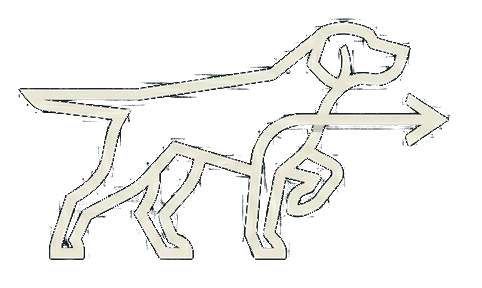
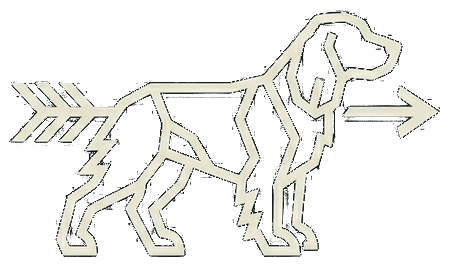
The Boykins rebrand: new spaniel mark, bigger header, legible boom/bust badge, big board is home

Changed region(s): [[0.0, 0.0299, 0.9912, 0.9851]]

diff --git a/static/style.css b/static/style.css
@@ -1,5 +1,5 @@
 /* ════════════════════════════════════════════════════════════
-   BIRDDOG SCOUTING — design system
+   THE BOYKINS SCOUTING — design system
    Palette derived from the brand mark: deep field slate, bone,
    hunter orange. One accent; semantic colors muted to match.
    ════════════════════════════════════════════════════════════ */
@@ -86,8 +86,8 @@ table, .stat-value, .bb-stat, .bb-pos { font-variant-numeric: tabular-nums; }
 .navbar.bd-nav {
     background: var(--bg-2) !important;
     border-bottom: 2px solid var(--orange);
-    padding-top: 10px;
-    padding-bottom: 10px;
+    padding-top: 14px;
+    padding-bottom: 14px;
 }
 .bd-brand {
     display: flex;
@@ -95,11 +95,11 @@ table, .stat-value, .bb-stat, .bb-pos { font-variant-numeric: tabular-nums; }
     gap: 10px;
     text-decoration: none;
 }
-.bd-brand .bd-mark { height: 34px; width: auto; display: block; }
+.bd-brand .bd-mark { height: 52px; width: auto; display: block; }
 .bd-wordmark {
     font-family: var(--font-display);
     font-weight: 700;
-    font-size: 19px;
+    font-size: 24px;
     letter-spacing: .04em;
     color: var(--ink);
     line-height: 1;
@@ -132,7 +132,7 @@ table, .stat-value, .bb-stat, .bb-pos { font-variant-numeric: tabular-nums; }
     border-bottom: 1px solid var(--line);
     padding: 12px 0;
     position: sticky;
-    top: 62px;
+    top: 86px;
     z-index: 1020;
 }
 .search-icon {
@@ -218,6 +218,16 @@ table, .stat-value, .bb-stat, .bb-pos { font-variant-numeric: tabular-nums; }
     min-width: 70px; display: inline-block;
 }
 .badge-sub { font-size: 10px; font-weight: 600; display: block; opacity: .85; }
+.pred-badge {
+    background: var(--bg-2);
+    border: 1px solid var(--line-strong);
+    color: var(--muted);
+    font-size: 22px; font-weight: 800;
+    padding: 10px 20px; border-radius: var(--radius); text-align: center;
+    min-width: 70px; display: inline-block;
+}
+.pred-badge .pred-boom { color: var(--green-soft); }
+.pred-badge .pred-bust { color: var(--red-soft); }
 
 /* ── Archetype badges ─────────────────────────────────── */
 .arch-off {

diff --git a/templates/scouting.html b/templates/scouting.html
@@ -1,6 +1,6 @@
 {% extends "base.html" %}
 {% set active_page = "scouting" %}
-{% block title %}{{ player.name }} — Birddog Scouting{% endblock %}
+{% block title %}{{ player.name }} — The Boykins Scouting{% endblock %}
 
 {% block head %}
 <style>
@@ -97,11 +97,11 @@
                     <div class="rank-badge"><span class="badge-sub">RANK</span>#{{ player.rank }}</div>
                     {% endif %}
                     {% if player.get('pred') %}
-                    <div class="score-badge" style="border-color:#57b27e" data-bs-toggle="tooltip"
+                    <div class="pred-badge" data-bs-toggle="tooltip"
                          data-bs-title="ML projection trained on the 2020-23 draft classes vs their real NBA careers. Boom = P(NBA starter or better); Bust = P(bench or out of the league). Calibrated for drafted-caliber prospects.">
                         <span class="badge-sub">BOOM / BUST</span>
-                        <span style="color:#57b27e">{{ (player.pred.success * 100)|round|int }}%</span>
-                        / <span style="color:#d65745">{{ (player.pred.bust * 100)|round|int }}%</span>
+                        <span class="pred-boom">{{ (player.pred.success * 100)|round|int }}%</span>
+                        / <span class="pred-bust">{{ (player.pred.bust * 100)|round|int }}%</span>
                     </div>
                     {% endif %}
                 </div>

diff --git a/templates/bigboard.html b/templates/bigboard.html
@@ -1,6 +1,6 @@
 {% extends "base.html" %}
 {% set active_page = "bigboard" %}
-{% block title %}Big Board — Birddog Scouting{% endblock %}
+{% block title %}Big Board — The Boykins Scouting{% endblock %}
 
 {% block head %}
 <script src="https://cdn.jsdelivr.net/npm/sortablejs@1.15.6/Sortable.min.js"></script>
@@ -210,7 +210,7 @@
         <div class="bb-stat" style="line-height:1.25"
              title="ML projection (trained on 2020-23 draft classes vs real NBA careers): chance of becoming an NBA starter+ / chance of busting out">
             <span style="color:#57b27e;font-size:12px">{{ (p.pred.success * 100)|round|int }}%</span> <span class="text-secondary" style="font-size:9px">boom</span><br>
-            <span style="color:#d65745;font-size:12px">{{ (p.pred.bust * 100)|round|int }}%</span> <span class="text-secondary" style="font-size:9px">bust</span>
+            <span style="color:#e07a6b;font-size:12px">{{ (p.pred.bust * 100)|round|int }}%</span> <span class="text-secondary" style="font-size:9px">bust</span>
         </div>
         {% endif %}
         {% if not is_master %}

diff --git a/templates/base.html b/templates/base.html
@@ -3,7 +3,7 @@
 <head>
     <meta charset="UTF-8">
     <meta name="viewport" content="width=device-width, initial-scale=1.0">
-    <title>{% block title %}Birddog Scouting{% endblock %}</title>
+    <title>{% block title %}The Boykins Scouting{% endblock %}</title>
     <link rel="icon" href="{{ url_for('static', filename='brand-pup.png') }}" type="image/png">
     <link rel="preconnect" href="https://fonts.googleapis.com">
     <link rel="preconnect" href="https://fonts.gstatic.com" crossorigin>
@@ -20,7 +20,7 @@
         <div class="container-fluid">
             <a class="bd-brand" href="/">
                 <img src="{{ url_for('static', filename='brand-mark.png') }}" alt="" class="bd-mark">
-                <span class="bd-wordmark">BIRDDOG<small>SCOUTING</small></span>
+                <span class="bd-wordmark">THE BOYKINS<small>SCOUTING</small></span>
             </a>
             <button class="navbar-toggler" type="button" data-bs-toggle="collapse" data-bs-target="#navMain">
                 <span class="navbar-toggler-icon"></span>

diff --git a/templates/archetypes.html b/templates/archetypes.html
@@ -1,6 +1,6 @@
 {% extends "base.html" %}
 {% set active_page = "archetypes" %}
-{% block title %}Archetype Rankings — Birddog Scouting{% endblock %}
+{% block title %}Archetype Rankings — The Boykins Scouting{% endblock %}
 
 {% block content %}
 <div class="d-flex justify-content-between align-items-center mb-1 flex-wrap gap-2">

diff --git a/templates/scarcity.html b/templates/scarcity.html
@@ -1,6 +1,6 @@
 {% extends "base.html" %}
 {% set active_page = "scarcity" %}
-{% block title %}Scarcity — Birddog Scouting{% endblock %}
+{% block title %}Scarcity — The Boykins Scouting{% endblock %}
 
 {% block content %}
 <div class="d-flex justify-content-between align-items-center mb-1 flex-wrap gap-2">

diff --git a/templates/watchlist.html b/templates/watchlist.html
@@ -1,6 +1,6 @@
 {% extends "base.html" %}
 {% set active_page = "watchlist" %}
-{% block title %}Watchlist — Birddog Scouting{% endblock %}
+{% block title %}Watchlist — The Boykins Scouting{% endblock %}
 
 {% block content %}
 <div class="d-flex justify-content-between align-items-center mb-3">

diff --git a/templates/ranking.html b/templates/ranking.html
@@ -1,6 +1,6 @@
 {% extends "base.html" %}
 {% set active_page = "ranking" %}
-{% block title %}Ranking System — Birddog Scouting{% endblock %}
+{% block title %}Ranking System — The Boykins Scouting{% endblock %}
 
 {% block content %}
 <h4 class="mb-1">How the Ranking Works</h4>

diff --git a/templates/needs.html b/templates/needs.html
@@ -1,6 +1,6 @@
 {% extends "base.html" %}
 {% set active_page = "needs" %}
-{% block title %}Team Needs — Birddog Scouting{% endblock %}
+{% block title %}Team Needs — The Boykins Scouting{% endblock %}
 
 {% block content %}
 <h4 class="mb-1">Team Needs Finder</h4>

diff --git a/templates/compare.html b/templates/compare.html
@@ -1,6 +1,6 @@
 {% extends "base.html" %}
 {% set active_page = "compare" %}
-{% block title %}Compare — Birddog Scouting{% endblock %}
+{% block title %}Compare — The Boykins Scouting{% endblock %}
 
 {% block content %}
 <h4 class="mb-3">Compare Players</h4>

diff --git a/web/views.py b/web/views.py
@@ -17,7 +17,7 @@ views_bp = Blueprint("views", __name__)
 
 @views_bp.route("/")
 def index():
-    return redirect(url_for("views.scouting"))
+    return redirect(url_for("views.bigboard"))
 
 
 @views_bp.route("/scouting")
